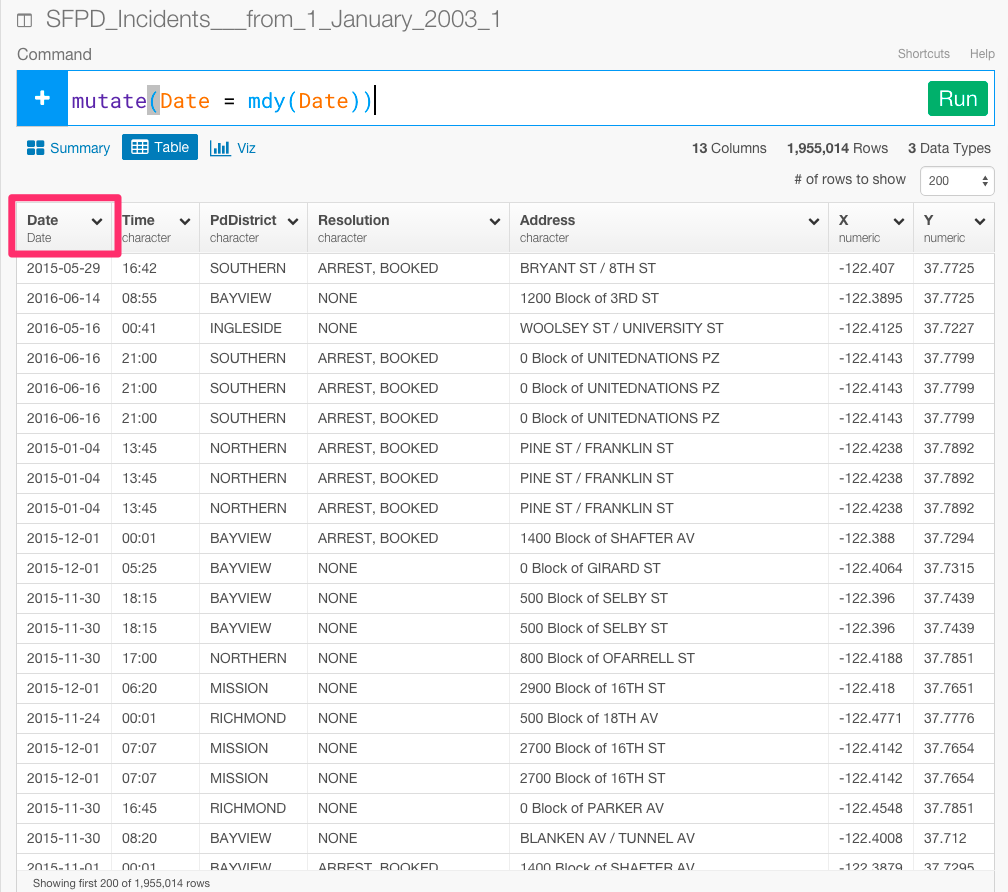
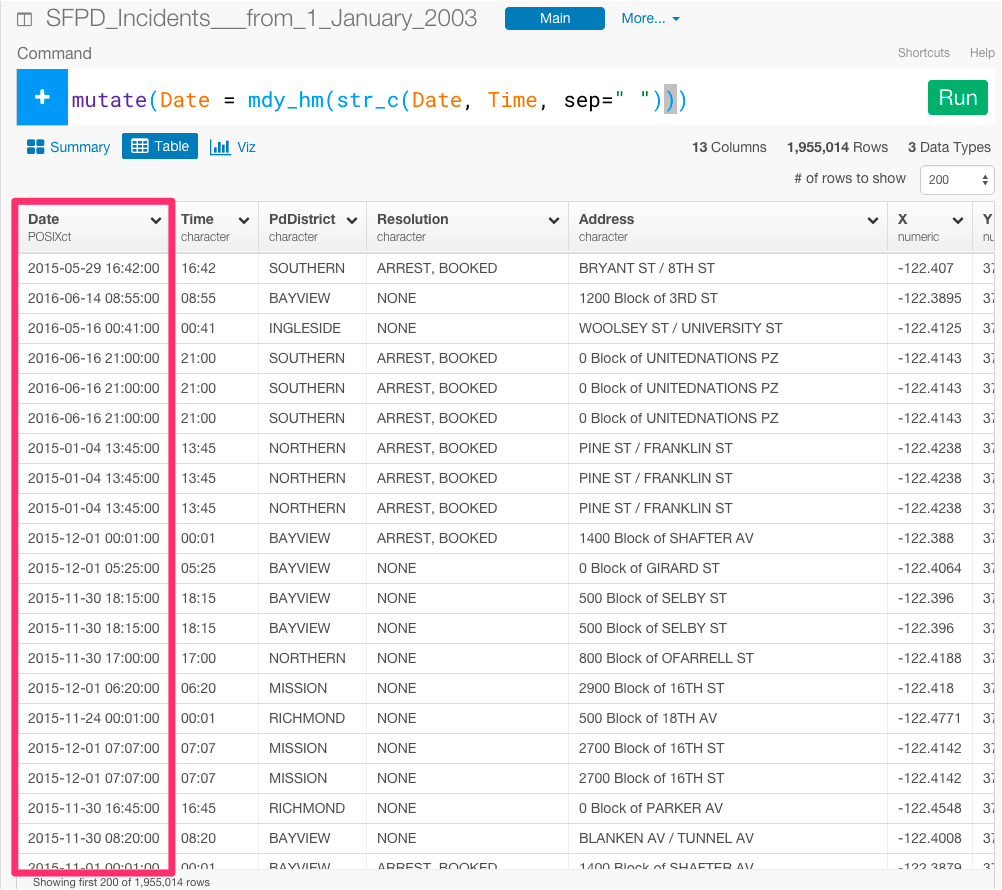
fix

diff --git a/articles/comparing-to-Periscope.md b/articles/comparing-to-Periscope.md
@@ -1,7 +1,7 @@
 #普通のSQLよりも150倍速いと謳ってるPeriscope Dataのさらに150倍の速さでサクッとRで分析してみた。
 
 この記事は、Rは知らないけど、SQLとか他のプログラミング言語はある程度やったことあるみたいな人向けです。
-SQLでデータ分析をしていて、煩わしいと感じたことはありませんか？　これは、SQLは、データを保存するために作られているので、ある意味当たり前のことなんです。しかし、データ分析において、Rをオススメしたい理由は、実はRは、データデータの加工、分析のために作られているからなんです。Rでなら、SQLを書くだけでは考えられなかったより高度なことや効果的な方法で素早くデータを分析していくことができるのです。
+SQLでデータ分析をしていて、煩わしいと感じたことはありませんか？　これは、SQLは、リレーショナルなデータベースから、クエリしてデータを抽出するために作られているので、ある意味当たり前のことなんです。しかし、データ分析において、Rをオススメしたい理由は、実はRは、データデータの加工、分析のために作られているからなんです。Rでなら、SQLを書くだけでは考えられなかったより高度なことや効果的な方法で素早くデータを分析していくことができるのです。
 
 普通のSQLよりも150倍速いと謳ってるPeriscope Dataという会社のブログをご存知でしょうか？
 
@@ -15,16 +15,53 @@ Periscope Data社が、ブログで、ぼくの留学先であるサンフラン
 
 だから、これから、PeriscopeData社のSQLを使った分析と、ぼくのRを使った分析を比較して、いかにRがSQLに比べてデータ分析に向いているかを説明していきたいと思います。データは[こちら](https://data.sfgov.org/Public-Safety/SFPD-Incidents-from-1-January-2003/tmnf-yvry)からダウンロードすることができます。
 
-##どの曜日が犯罪が多いか
+##データを準備するのが、SQLに比べてどれだけ簡単か
 
-まず、どの曜日が犯罪が多いかを分析していきたいと思います。
 
-mdy関数を使って、データ・タイプをcharacterからDateに変えたいと思います。
 
-![](images/mdy-sf.png)
+Periscope Data社は、どの曜日とどの時間帯に犯罪が多いのかを見るために、SQLを使って、このように分析しています。
+
+```
+select
+  extract(dayofweek from date)
+  , extract(hour from date)
+  , count(1)
+from
+  sf_crime_2003_2015
+group by
+  1
+  , 2
+order by
+  3
+```
+
+```
+select 0, 'Sunday'
+union select 1, 'Monday'
+union select 2, 'Tuesday'
+union select 3, 'Wednesday'
+union select 4, 'Thursday'
+union select 5, 'Friday'
+union select 6, 'Saturday'
+```
+
+Exploratoryだと、ボタン１つでインポートすることができます。
+
+![](images/import-sf.png)
+
+サマリー画面を見てもらえるとわかるように、Date列のデータタイプはデフォルトだとcharacterになっています。
+
+![](images/summary-sf.png)
+
+
+デフォルトでは、characterになっているのに、SQLのextract関数を使って、曜日や時間を引き出せているということは、だれかが、データをインポートする段階で、めんどくさいことをしてDate列のデータタイプをDateに変えてるんですよね。でも残念ながら、その部分は彼らは書いていません。SQLだと実はそこがものすごく大変なんです。大変だからこそブログで書かなかったんでしょうね笑。
+
+一方、Rの場合は、
+
+mdy_hm関数を使うと、たった1行で、データ・タイプをcharacterからDateに変えることができます。
 
 `
-mutate(Date = mdy(Date))
+mutate(Date = mdy_hm(str_c(Date, Time, sep=" "))
 `
 
 ![](images/mdy-sf2.png)
@@ -61,28 +98,7 @@ summarize(numreports = n())
 Periscope Data社はSQLを使って、このように分析しています。どちらが直感的でシンプルかは一目瞭然ですよね。
 
 
-```
-select
-  extract(dayofweek from date)
-  , count(1)
-from
-  sf_crime_2003_2015
-group by
-  1
-  , 2
-order by
-  3
-```
 
-```
-select 0, 'Sunday'
-union select 1, 'Monday'
-union select 2, 'Tuesday'
-union select 3, 'Wednesday'
-union select 4, 'Thursday'
-union select 5, 'Friday'
-union select 6, 'Saturday'
-```
 
 ##どの時間帯に犯罪が多いか
 
@@ -93,7 +109,7 @@ union select 6, 'Saturday'
 hour関数を使って、hourデータを抽出します。
 
 `
-mutate(date_time = mdy_hm(str_c(Date, Time, sep=" ")), hour = hour(date_time))
+hour = hour(date_time))
 `
 
 ![](images/hour-sql.png)
@@ -116,21 +132,6 @@ summarize(numreports = n())
 
 午後の5時から6時にかけてが一番多いみたいですね。
 
-
-いっぽう、Periscope Data社はSQLを使って、このように分析しています。しかし、〜。
-
-```
-select
-  extract(hour from date)
-  , count(1)
-from
-  sf_crime_2003_2015
-group by
-  1
-  , 2
-order by
-  3,
-```
 
 ##最も犯罪件数が多い月日はいつか？
 
